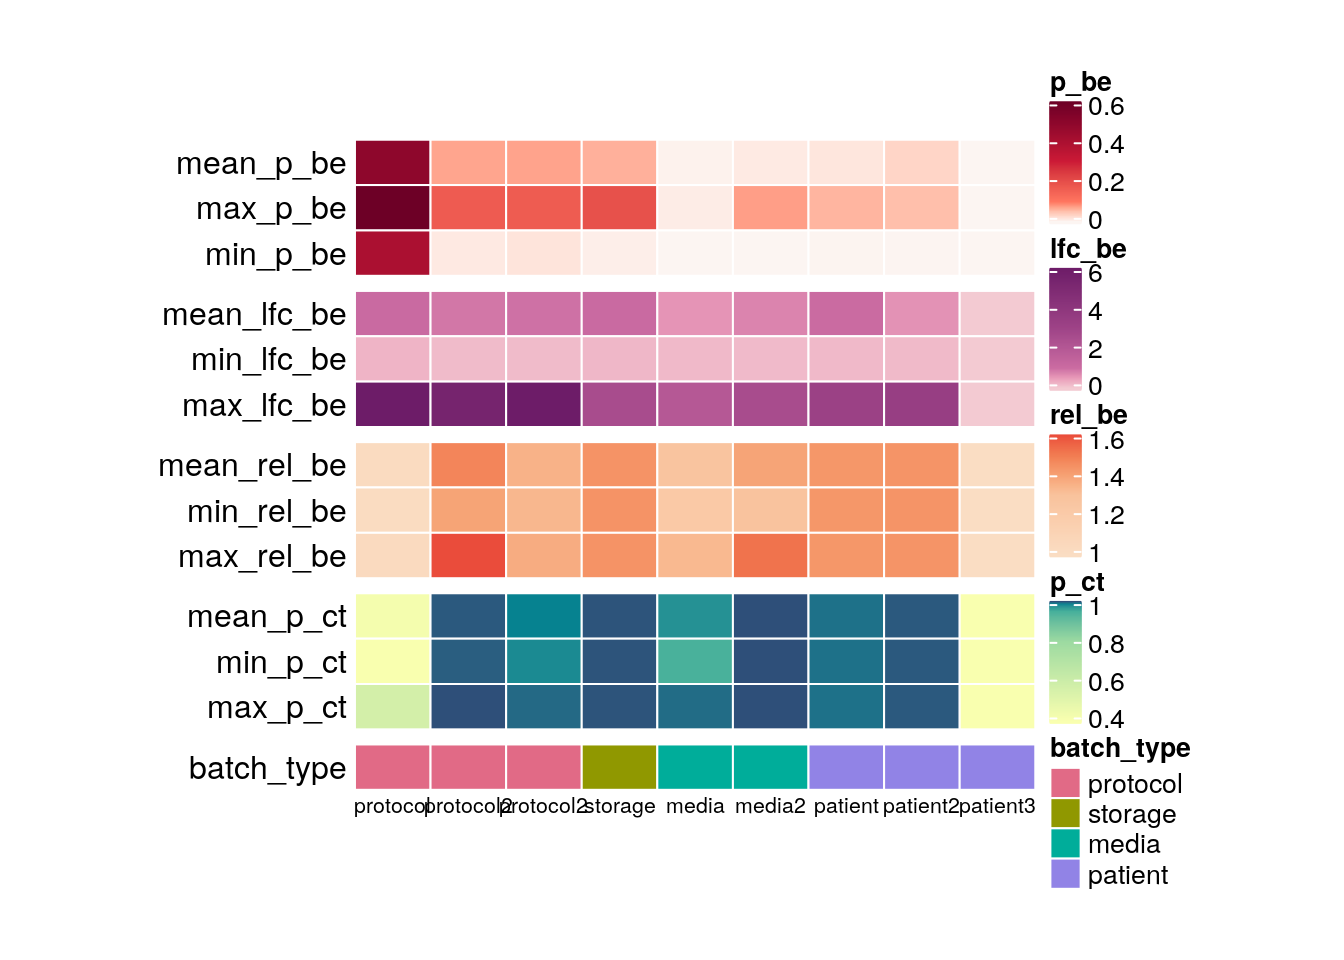
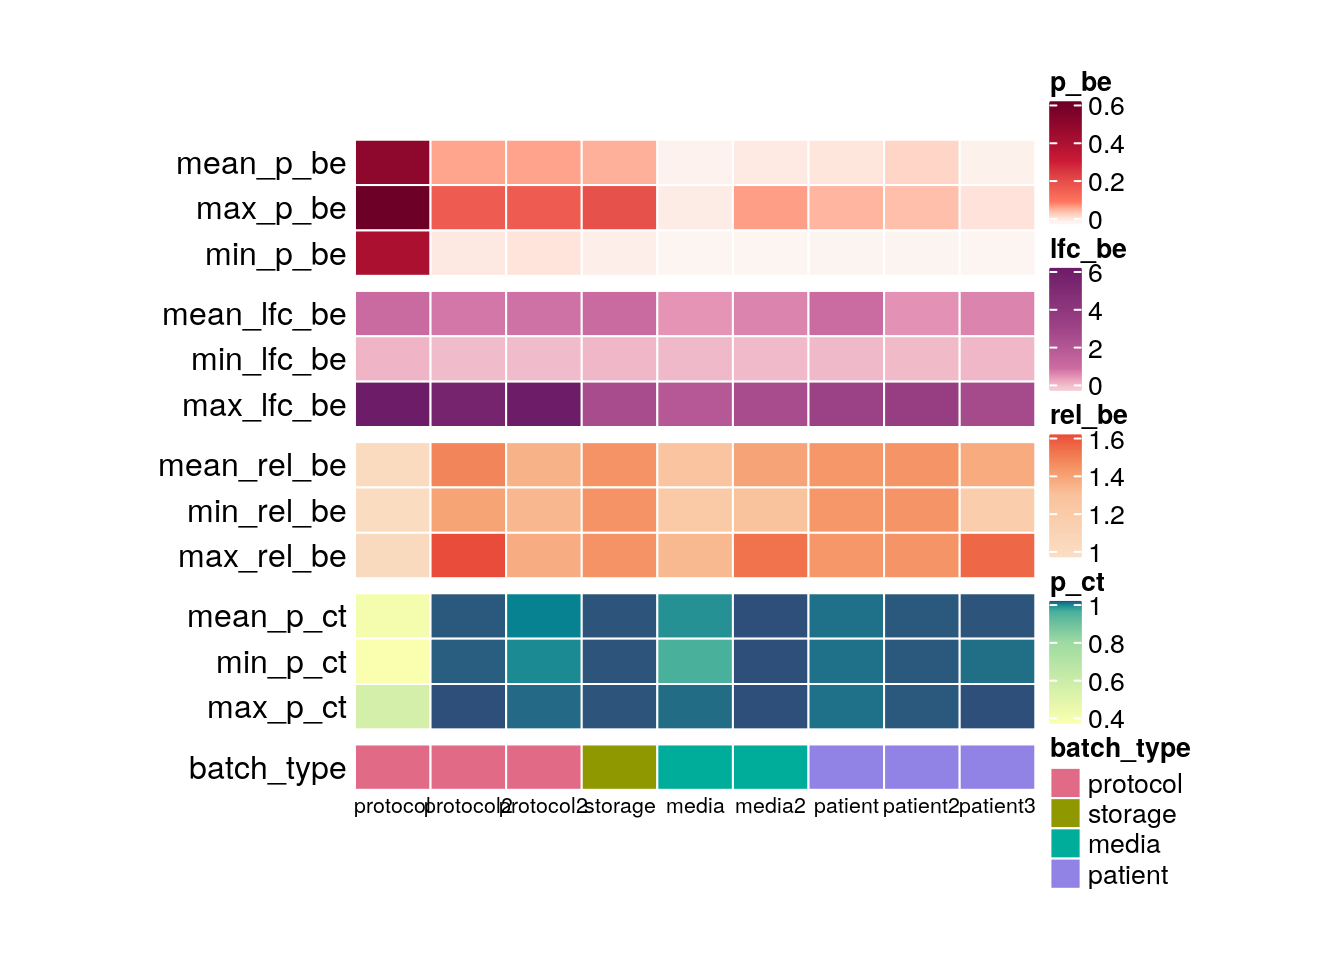
Build site.

Changed region(s): [[0.6875, 0.2812, 0.7812, 0.7812], [0.7188, 0.1875, 0.7812, 0.25]]

diff --git a/docs/summarize_batch_characteristics.html b/docs/summarize_batch_characteristics.html
@@ -523,10 +523,10 @@ This reproducible <a href="http://rmarkdown.rstudio.com">R Markdown</a> analysis
 <div class="panel panel-default">
 <div class="panel-heading">
 <p class="panel-title">
-<a data-toggle="collapse" data-parent="#workflowr-checks" href="#strongRepositoryversionstrongahrefhttpsgithubcomalmutluecharacterizebatchestreee33654fd60c4c71b5262a6dccf1971a4042d35fftargetblanke33654fa"> <span class="glyphicon glyphicon-ok text-success" aria-hidden="true"></span> <strong>Repository version:</strong> <a href="https://github.com/almutlue/characterize_batches/tree/e33654fd60c4c71b5262a6dccf1971a4042d35ff" target="_blank">e33654f</a> </a>
+<a data-toggle="collapse" data-parent="#workflowr-checks" href="#strongRepositoryversionstrongahrefhttpsgithubcomalmutluecharacterizebatchestreec46302124ccde9a4ad2019f1d529b05113022db4targetblankc463021a"> <span class="glyphicon glyphicon-ok text-success" aria-hidden="true"></span> <strong>Repository version:</strong> <a href="https://github.com/almutlue/characterize_batches/tree/c46302124ccde9a4ad2019f1d529b05113022db4" target="_blank">c463021</a> </a>
 </p>
 </div>
[2 lines of base64/hex data omitted]
 <div class="panel-body">
 <p>
 Great! You are using Git for version control. Tracking code development and connecting the code version to the results is critical for reproducibility. The version displayed above was the version of the Git repository at the time these results were generated. <br><br> Note that you need to be careful to ensure that all relevant files for the analysis have been committed to Git prior to generating the results (you can use <code>wflow_publish</code> or <code>wflow_git_commit</code>). workflowr only checks the R Markdown file, but you know if there are other scripts or data files that it depends on. Below is the status of the Git repository when the results were generated:
@@ -607,9 +607,6 @@ Untracked files:
     Untracked:  output/vp_pbmc2_patient.rds
     Untracked:  output/vp_pbmc_media_storage.rds
 
-Unstaged changes:
-    Modified:   analysis/pancreas.Rmd
-
 </code></pre>
 <p>
 Note that any generated files, e.g. HTML, png, CSS, etc., are not included in this status report because it is ok for generated content to have uncommitted changes.
@@ -647,6 +644,40 @@ Message
 </tr>
 </thead>
 <tbody>
+<tr>
+<td>
+Rmd
+</td>
+<td>
+<a href="https://github.com/almutlue/characterize_batches/blob/c46302124ccde9a4ad2019f1d529b05113022db4/analysis/summarize_batch_characteristics.Rmd" target="_blank">c463021</a>
+</td>
+<td>
+almutlue
+</td>
+<td>
+2019-06-20
+</td>
+<td>
+wflow_publish(“analysis/summarize_batch_characteristics.Rmd”)
+</td>
+</tr>
+<tr>
+<td>
+html
+</td>
+<td>
+<a href="https://rawcdn.githack.com/almutlue/characterize_batches/f8e6fa112016bc7c89c55e0601b7a21d2e1e941c/docs/summarize_batch_characteristics.html" target="_blank">f8e6fa1</a>
+</td>
+<td>
+almutlue
+</td>
+<td>
+2019-06-20
+</td>
+<td>
+Build site.
+</td>
+</tr>
 <tr>
 <td>
 Rmd
@@ -855,8 +886,6 @@ add summary
     library(viridis)
     library(colorspace)
     library(stringr)
-    library(variancePartition)
-    library(diffcyt)
 })</code></pre>
 <p>data</p>
 <pre class="r"><code># data 
@@ -1139,8 +1168,8 @@ h_list &lt;-  h_cms2 %v% h_cms %v% h_size1 %v% h_size2 %v% h_size %v% h_gene %v%
 
 #Add decorations describing the type of variable
 ### Size variables
-celltype_spec_variables &lt;- c(&quot;rel.abund.diff&quot;, &quot;Batch/Celltype&quot;)
-size_variables &lt;- c(&quot;cms&quot;, &quot;Variance Part.&quot;, &quot;Genes&quot;)
+celltype_spec_variables &lt;- c(&quot;rel.abund.diff&quot;)
+size_variables &lt;- c(&quot;cms&quot;, &quot;Variance Part.&quot;, &quot;Genes&quot;, &quot;Batch/Celltype&quot;)
 gene_spec_variables &lt;- c(&quot;DE genes&quot;)
 
 draw(h_list)
@@ -1151,9 +1180,6 @@ lapply(celltype_spec_variables, function(vars){
   })
 })</code></pre>
 <pre><code>[[1]]
-[1] 1
-
-[[2]]
 [1] 1</code></pre>
 <pre class="r"><code>lapply(size_variables, function(vars){
   decorate_row_names(vars, {
@@ -1167,6 +1193,9 @@ lapply(celltype_spec_variables, function(vars){
 [1] 1
 
 [[3]]
+[1] 1
+
+[[4]]
 [1] 1</code></pre>
 <pre class="r"><code>lapply(gene_spec_variables, function(vars){
   decorate_row_names(vars, {
@@ -1196,6 +1225,17 @@ Date
 </tr>
 </thead>
 <tbody>
+<tr>
+<td>
+<a href="https://github.com/almutlue/characterize_batches/blob/f8e6fa112016bc7c89c55e0601b7a21d2e1e941c/docs/figure/summarize_batch_characteristics.Rmd/complex heatmap-1.png" target="_blank">f8e6fa1</a>
+</td>
+<td>
+almutlue
+</td>
+<td>
+2019-06-20
+</td>
+</tr>
 <tr>
 <td>
 <a href="https://github.com/almutlue/characterize_batches/blob/fc34b2155ee0567c17623d702b7a5e9faf31c2d3/docs/figure/summarize_batch_characteristics.Rmd/complex heatmap-1.png" target="_blank">fc34b21</a>
@@ -1421,6 +1461,17 @@ Date
 <tbody>
 <tr>
 <td>
+<a href="https://github.com/almutlue/characterize_batches/blob/f8e6fa112016bc7c89c55e0601b7a21d2e1e941c/docs/figure/summarize_batch_characteristics.Rmd/sim para-1.png" target="_blank">f8e6fa1</a>
+</td>
+<td>
+almutlue
+</td>
+<td>
+2019-06-20
+</td>
+</tr>
+<tr>
+<td>
 <a href="https://github.com/almutlue/characterize_batches/blob/e478dc786047707f426c6e20cccd34b80d7ee24f/docs/figure/summarize_batch_characteristics.Rmd/sim para-1.png" target="_blank">e478dc7</a>
 </td>
 <td>
@@ -1471,70 +1522,30 @@ locale:
 [11] LC_MEASUREMENT=de_DE.UTF-8 LC_IDENTIFICATION=C       
 
 attached base packages:
-[1] parallel  grid      stats     graphics  grDevices utils     datasets 
-[8] methods   base     
+[1] grid      stats     graphics  grDevices utils     datasets  methods  
+[8] base     
 
 other attached packages:
- [1] diffcyt_1.4.3            variancePartition_1.14.0
- [3] Biobase_2.44.0           BiocGenerics_0.30.0     
- [5] foreach_1.4.4            limma_3.40.2            
- [7] ggplot2_3.1.1            stringr_1.4.0           
- [9] colorspace_1.4-1         viridis_0.5.1           
-[11] viridisLite_0.3.0        here_0.1                
-[13] circlize_0.4.6           scales_1.0.0            
-[15] ComplexHeatmap_2.1.0     dplyr_0.8.1             
-[17] purrr_0.3.2              magrittr_1.5            
+ [1] stringr_1.4.0        colorspace_1.4-1     viridis_0.5.1       
+ [4] viridisLite_0.3.0    here_0.1             circlize_0.4.6      
+ [7] scales_1.0.0         ComplexHeatmap_2.1.0 dplyr_0.8.1         
+[10] purrr_0.3.2          magrittr_1.5        
 
 loaded via a namespace (and not attached):
- [1] TH.data_1.0-10              minqa_1.2.4                
- [3] rjson_0.2.20                colorRamps_2.3             
- [5] rprojroot_1.3-2             corpcor_1.6.9              
- [7] XVector_0.24.0              GenomicRanges_1.36.0       
- [9] GlobalOptions_0.1.0         fs_1.3.1                   
-[11] clue_0.3-57                 mvtnorm_1.0-11             
-[13] codetools_0.2-16            splines_3.6.0              
-[15] doParallel_1.0.14           robustbase_0.93-5          
-[17] knitr_1.23                  workflowr_1.3.0            
-[19] nloptr_1.2.1                pbkrtest_0.4-7             
-[21] cluster_2.1.0               png_0.1-7                  
-[23] graph_1.62.0                rrcov_1.4-7                
-[25] compiler_3.6.0              backports_1.1.4            
-[27] assertthat_0.2.1            Matrix_1.2-17              
-[29] lazyeval_0.2.2              htmltools_0.3.6            
-[31] prettyunits_1.0.2           tools_3.6.0                
-[33] igraph_1.2.4.1              gtable_0.3.0               
-[35] glue_1.3.1                  GenomeInfoDbData_1.2.1     
-[37] reshape2_1.4.3              Rcpp_1.0.1                 
-[39] gdata_2.18.0                nlme_3.1-140               
-[41] iterators_1.0.10            xfun_0.7                   
-[43] lme4_1.1-21                 gtools_3.8.1               
-[45] XML_3.98-1.19               edgeR_3.26.4               
-[47] DEoptimR_1.0-8              MASS_7.3-51.4              
-[49] zlibbioc_1.30.0             zoo_1.8-6                  
-[51] hms_0.4.2                   SummarizedExperiment_1.14.0
-[53] sandwich_2.5-1              RColorBrewer_1.1-2         
-[55] yaml_2.2.0                  gridExtra_2.3              
-[57] stringi_1.4.3               S4Vectors_0.22.0           
-[59] pcaPP_1.9-73                flowCore_1.50.0            
-[61] caTools_1.17.1.2            boot_1.3-22                
-[63] BiocParallel_1.18.0         shape_1.4.4                
-[65] GenomeInfoDb_1.20.0         rlang_0.3.4                
-[67] pkgconfig_2.0.2             matrixStats_0.54.0         
-[69] bitops_1.0-6                evaluate_0.14              
-[71] lattice_0.20-38             tidyselect_0.2.5           
-[73] plyr_1.8.4                  R6_2.4.0                   
-[75] IRanges_2.18.1              gplots_3.0.1.1             
-[77] multcomp_1.4-10             DelayedArray_0.10.0        
-[79] pillar_1.4.1                whisker_0.3-2              
-[81] withr_2.1.2                 survival_2.44-1.1          
-[83] RCurl_1.95-4.12             FlowSOM_1.16.0             
-[85] tibble_2.1.2                tsne_0.1-3                 
-[87] crayon_1.3.4                KernSmooth_2.23-15         
-[89] rmarkdown_1.13              GetoptLong_0.1.7           
-[91] progress_1.2.2              locfit_1.5-9.1             
-[93] git2r_0.25.2                ConsensusClusterPlus_1.48.0
-[95] digest_0.6.19               tidyr_0.8.3                
-[97] stats4_3.6.0                munsell_0.5.0              </code></pre>
+ [1] Rcpp_1.0.1          plyr_1.8.4          pillar_1.4.1       
+ [4] compiler_3.6.0      RColorBrewer_1.1-2  git2r_0.25.2       
+ [7] workflowr_1.3.0     tools_3.6.0         digest_0.6.19      
+[10] gtable_0.3.0        evaluate_0.14       tibble_2.1.2       
+[13] clue_0.3-57         pkgconfig_2.0.2     png_0.1-7          
+[16] rlang_0.3.4         yaml_2.2.0          parallel_3.6.0     
+[19] xfun_0.7            gridExtra_2.3       knitr_1.23         
+[22] cluster_2.1.0       fs_1.3.1            GlobalOptions_0.1.0
+[25] rprojroot_1.3-2     tidyselect_0.2.5    glue_1.3.1         
+[28] R6_2.4.0            GetoptLong_0.1.7    rmarkdown_1.13     
+[31] ggplot2_3.1.1       whisker_0.3-2       backports_1.1.4    
+[34] htmltools_0.3.6     assertthat_0.2.1    shape_1.4.4        
+[37] stringi_1.4.3       lazyeval_0.2.2      munsell_0.5.0      
+[40] crayon_1.3.4        rjson_0.2.20       </code></pre>
 </div>
 </div>
 
